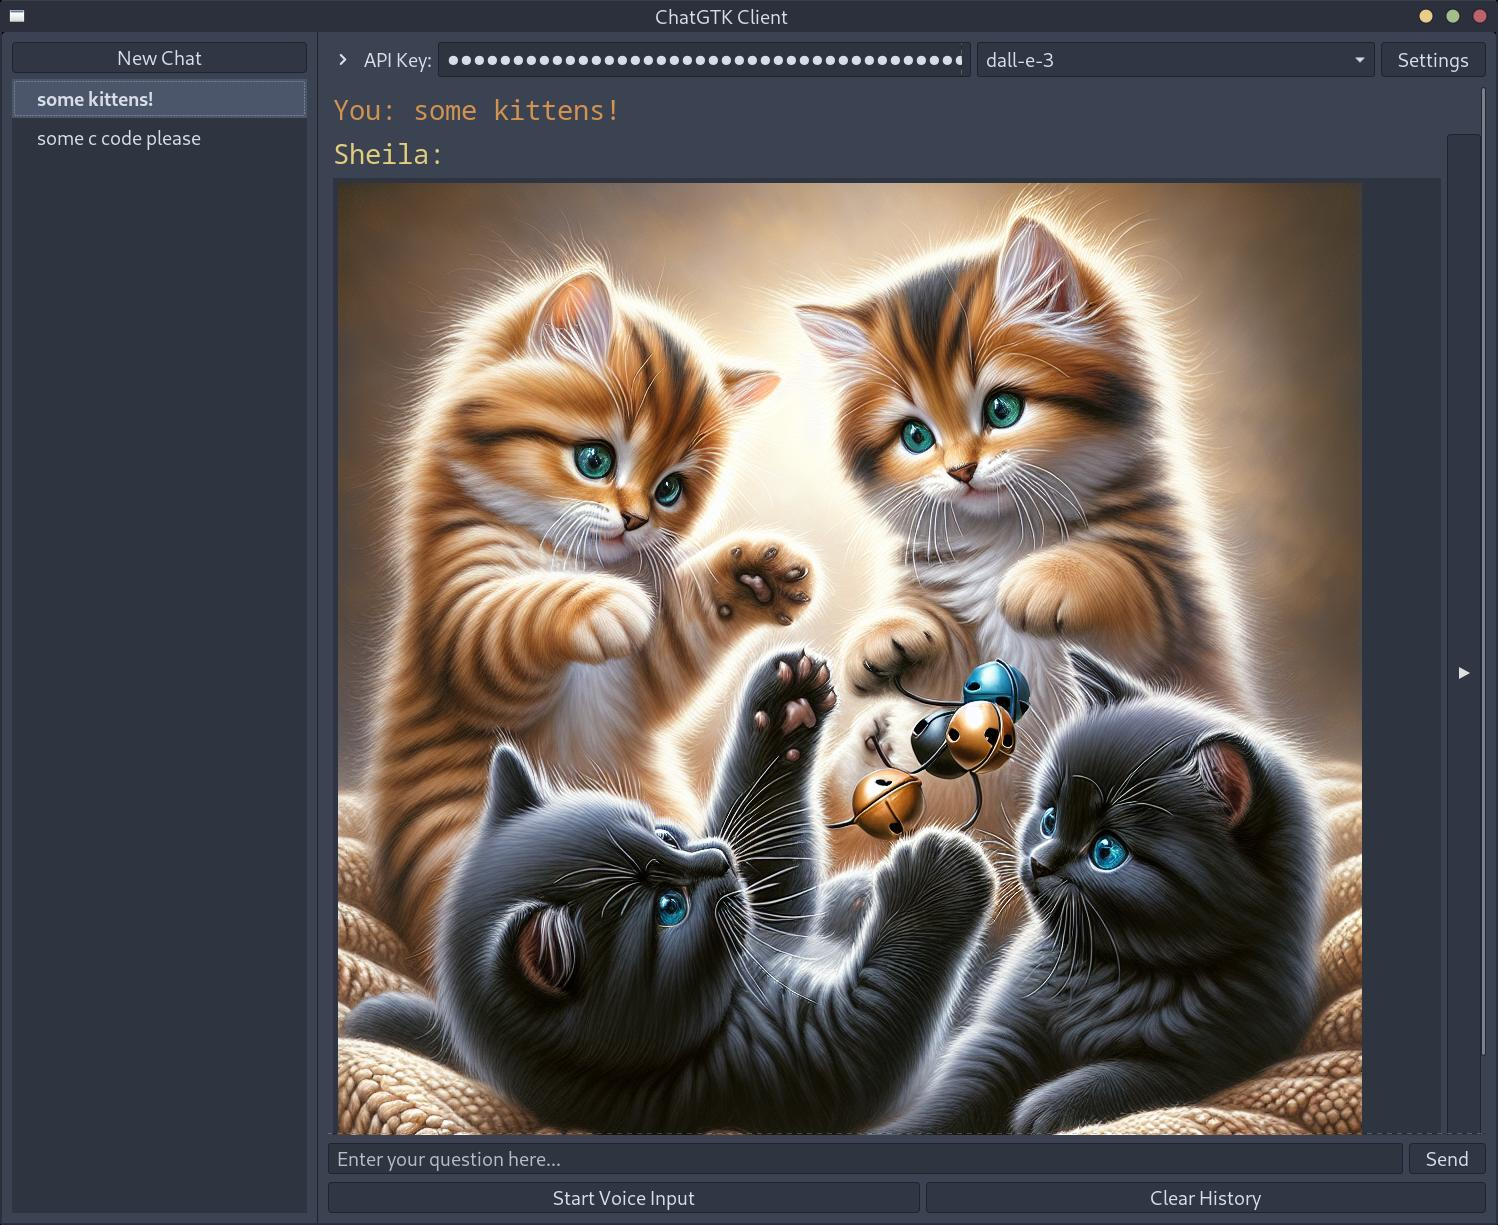
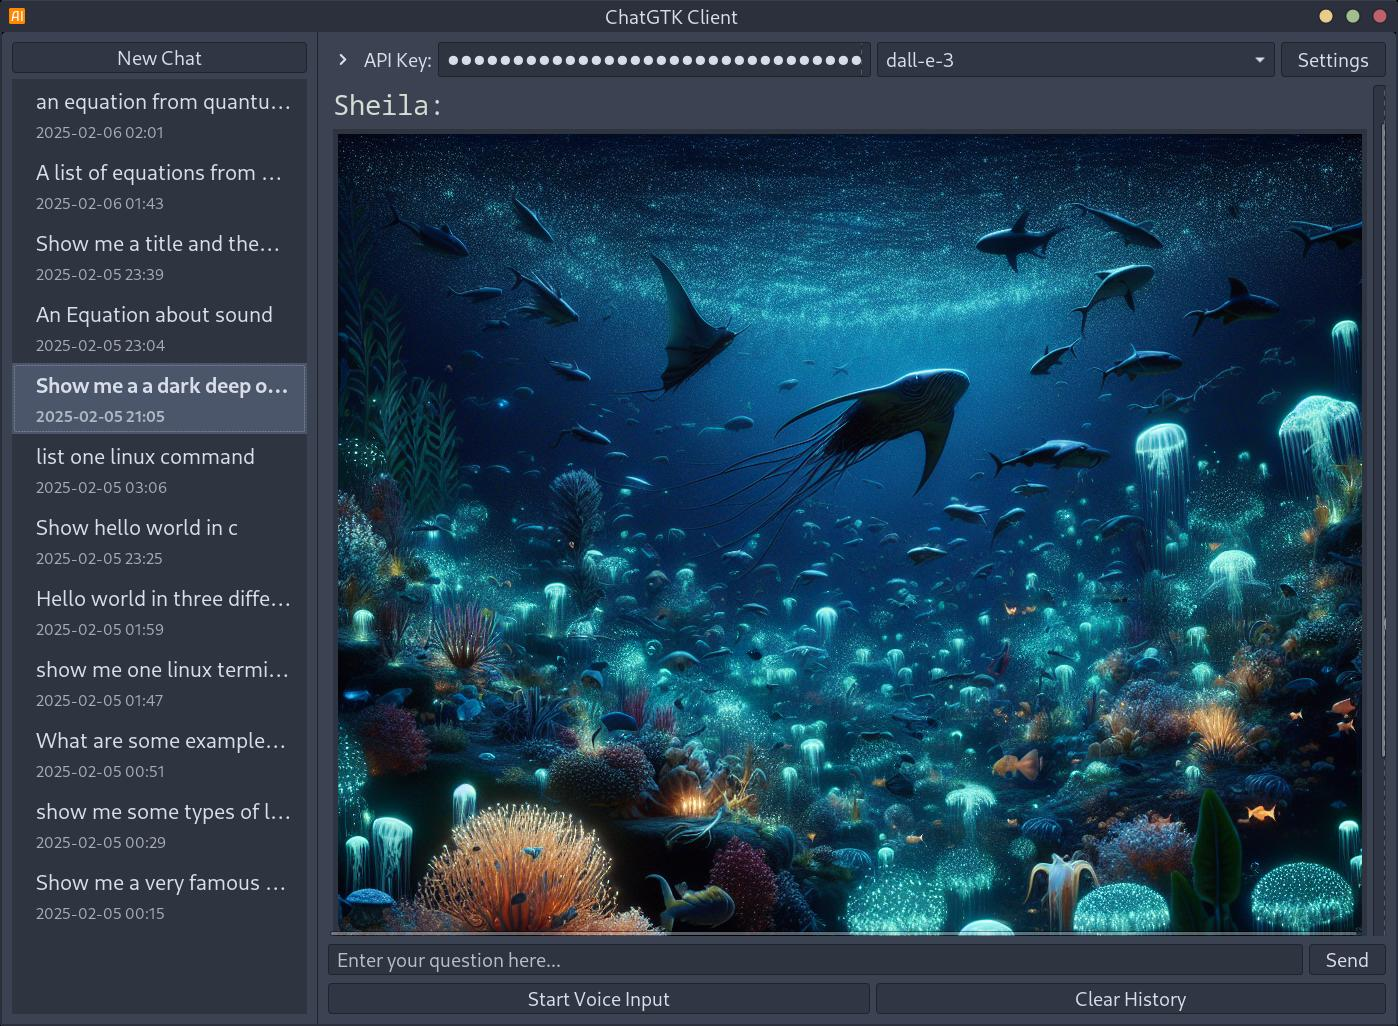
Improve styling of sidebar

diff --git a/ChatGTK.py b/ChatGTK.py
@@ -35,6 +35,7 @@ from markup_utils import (
     escape_for_pango_markup,
     process_text_formatting
 )
+from gi.repository import Gdk
 
 # Initialize provider as None
 ai_provider = None
@@ -479,8 +480,13 @@ class OpenAIGTKClient(Gtk.Window):
         
         # Create list box for chat histories
         self.history_list = Gtk.ListBox()
+        self.history_list.set_selection_mode(Gtk.SelectionMode.SINGLE)
         self.history_list.connect('row-activated', self.on_history_selected)
         self.history_list.connect('button-press-event', self.on_history_button_press)
+        
+        # Add navigation-sidebar style class
+        self.history_list.get_style_context().add_class('navigation-sidebar')
+        
         scrolled.add(self.history_list)
 
         # Pack sidebar into left pane
@@ -1276,28 +1282,99 @@ class OpenAIGTKClient(Gtk.Window):
         # Get histories from utils
         histories = list_chat_histories()
         
+        # Add CSS styling for the list rows
+        css_provider = Gtk.CssProvider()
+        css = """
+            .navigation-sidebar row {
+                padding: 8px 6px;
+                margin: 0px;
+                border-radius: 0px;
+                border: none;
+            }
+            .title {
+                margin-bottom: 4px;
+                font-size: 1.1em;
+            }
+            .timestamp {
+                font-size: 0.8em;
+                opacity: 0.7;
+            }
+            scrolledwindow {
+                border-top: none;
+                border-bottom: none;
+            }
+            scrolledwindow undershoot.top,
+            scrolledwindow undershoot.bottom,
+            scrolledwindow overshoot.top,
+            scrolledwindow overshoot.bottom {
+                background: none;
+            }
+            scrolledwindow junction {
+                background: none;
+                border: none;
+            }
+        """
+        try:
+            css_provider.load_from_data(css.encode())
+            print("CSS loaded successfully")
+        except Exception as e:
+            print(f"Error loading CSS: {e}")
+            return
+        
+        # Apply CSS to both the list and the scrolled window
+        try:
+            # Add provider to the default screen for this CSS
+            Gtk.StyleContext.add_provider_for_screen(
+                Gdk.Screen.get_default(),
+                css_provider,
+                Gtk.STYLE_PROVIDER_PRIORITY_APPLICATION
+            )
+        except Exception as e:
+            print(f"Error applying CSS provider: {e}")
+            return
+
         for history in histories:
             row = Gtk.ListBoxRow()
-            # Truncate message to first 40 characters and add ellipsis if needed
-            display_text = history['first_message'][:40]
+            
+            # Create vertical box for title and timestamp
+            vbox = Gtk.Box(orientation=Gtk.Orientation.VERTICAL, spacing=4)
+            vbox.set_margin_start(10)  # Adjusted to match button padding
+            vbox.set_margin_end(10)    # Adjusted to match button padding
+            
+            # Title label (first message)
+            title = history['first_message'][:40]
             if len(history['first_message']) > 40:
-                display_text += "..."
+                title += "..."
+            title_label = Gtk.Label(label=title, xalign=0)
+            title_label.get_style_context().add_class('title')
+            title_label.set_line_wrap(False)
+            title_label.set_ellipsize(Pango.EllipsizeMode.END)
             
-            label = Gtk.Label(
-                label=display_text,
-                xalign=0,  # Left align
-                margin=6
-            )
-            label.set_line_wrap(False)  # Prevent wrapping
-            label.set_ellipsize(Pango.EllipsizeMode.END)  # Add ellipsis if text is too long
-            row.add(label)
+            # Timestamp label with CSS provider
+            timestamp = self.get_chat_timestamp(history['filename'])
+            time_label = Gtk.Label(label=timestamp, xalign=0)
+            time_label.get_style_context().add_class('timestamp')
             
-            # Store filename in row data
+            vbox.pack_start(title_label, True, True, 0)
+            vbox.pack_start(time_label, True, True, 0)
+            
+            row.add(vbox)
             row.filename = history['filename']
             
             self.history_list.add(row)
         
         self.history_list.show_all()
+
+    def get_chat_timestamp(self, filename):
+        """Get a formatted timestamp for the chat file."""
+        try:
+            file_path = Path('history') / filename
+            if file_path.exists():
+                timestamp = file_path.stat().st_mtime
+                return time.strftime("%Y-%m-%d %H:%M", time.localtime(timestamp))
+        except Exception as e:
+            print(f"Error getting timestamp: {e}")
+        return "Unknown date"
 
     def on_history_selected(self, listbox, row):
         """Handle selection of a chat history."""
